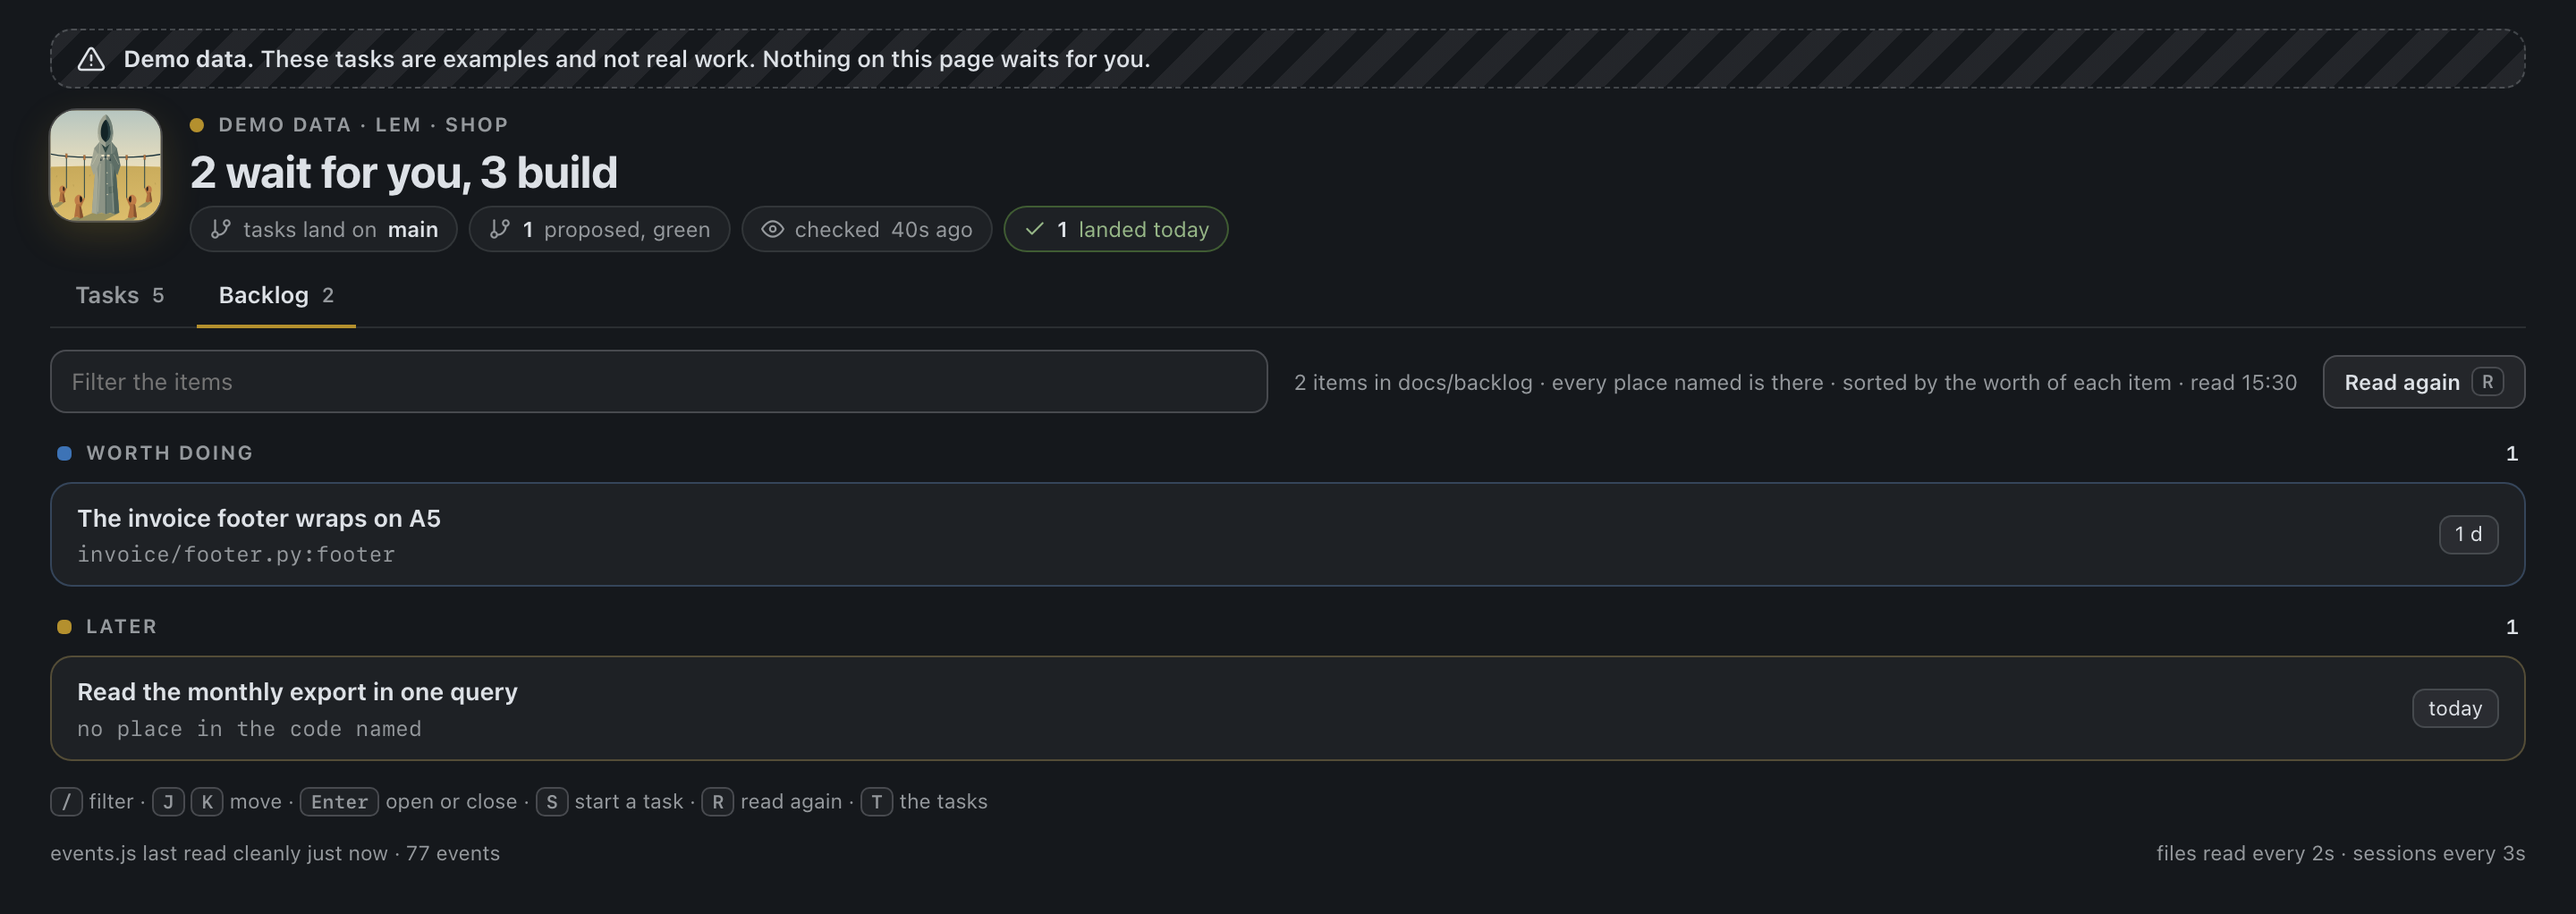
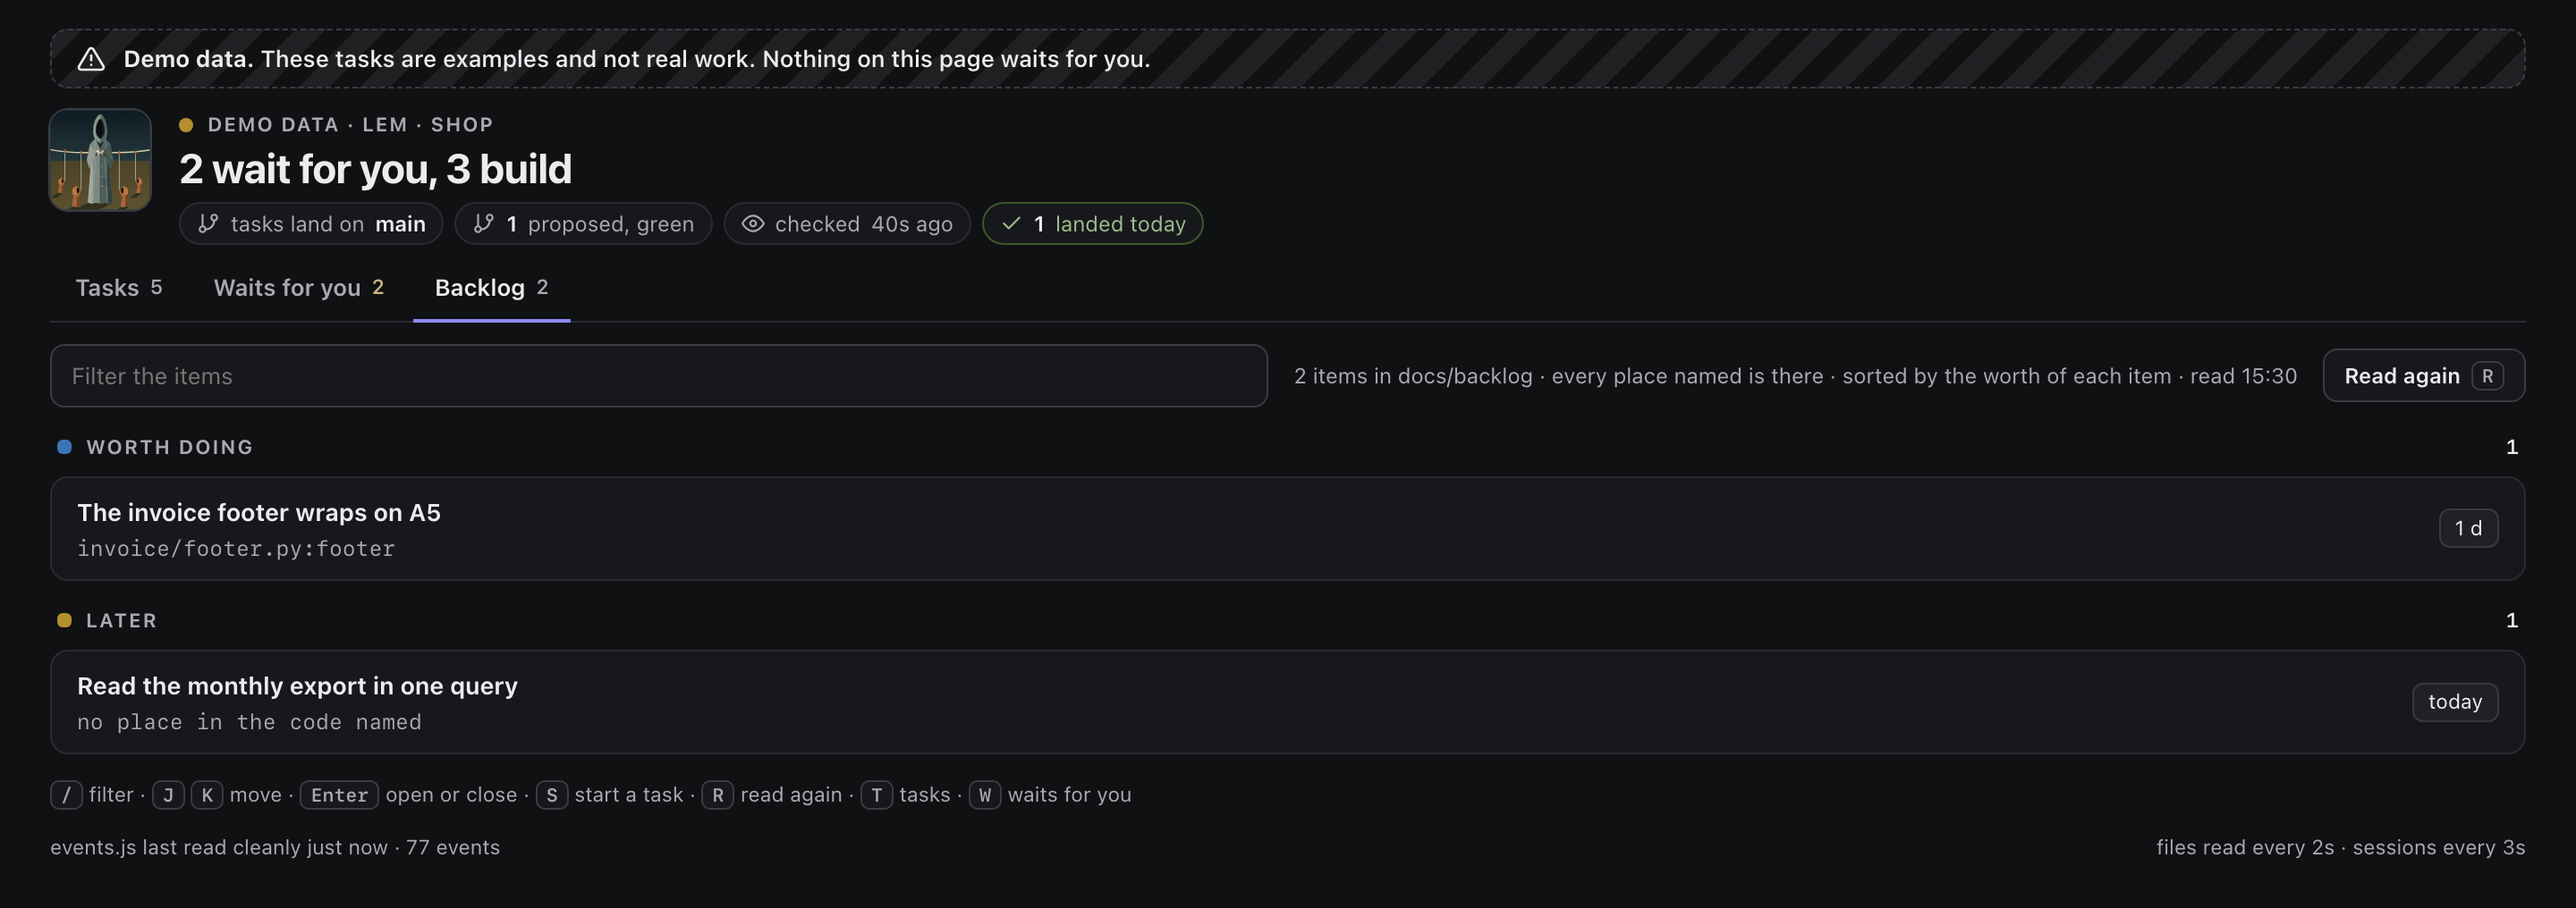
test(showcase): the pictures give light and dark by agterm's theme stylesheet, and show the new board

diff --git a/tests/board-showcase.py b/tests/board-showcase.py
@@ -29,8 +29,13 @@ ROOT = Path(__file__).resolve().parent.parent
 SCRIPTS = ROOT / "skills" / "lem" / "scripts"
 NOW = datetime(2026, 11, 17, 15, 30, tzinfo=timezone.utc)
 CHROMES = ("google-chrome", "chromium", "chromium-browser", "/Applications/Google Chrome.app/Contents/MacOS/Google Chrome")
-# The dark theme as agterm gives it to a page: its background and its text color.
-DARK = ":root { --agterm-background: #15181c; --agterm-foreground: #dde1e6; }"
+# A light and a dark theme as agterm gives them to a page: the stylesheet it puts into a file page, whose
+# color-scheme on html is what lem.js reads to choose Lem's own palette (agterm's background alone chooses
+# nothing). The form is the line tests/test-board.sh puts into its pages.
+THEMES = {
+    "light": ":where(html) { color-scheme: light; color: #1d1f21; --agterm-background: #ffffff; --agterm-foreground: #1d1f21; }",
+    "dark": ":where(html) { color-scheme: dark; color: #dde1e6; --agterm-background: #15181c; --agterm-foreground: #dde1e6; }",
+}
 WIDTH = 1440
 
 
@@ -320,7 +325,8 @@ def page_copy(state: Path, page: str, dark: bool, probe: bool) -> Path:
     if not pristine.is_file():
         shutil.copyfile(target, pristine)
     text = pristine.read_text()
-    head = CLOCK.format(now=NOW.strftime("%Y-%m-%dT%H:%M:%SZ")) + (f"<style>{DARK}</style>" if dark else "")
+    theme = THEMES["dark" if dark else "light"]
+    head = CLOCK.format(now=NOW.strftime("%Y-%m-%dT%H:%M:%SZ")) + f'<style id="agterm-theme">{theme}</style>'
     text = text.replace("<head>", f"<head>{head}", 1)
     if probe:
         text = text.replace("</body>", f"{PROBE}</body>", 1)
@@ -376,6 +382,7 @@ def main() -> None:
         if "--measure" in sys.argv:
             print(json.dumps({f"{w}x900": measure(binary, profile, shop.dir, "board", w, 900) for w in (900, 1400, 1800)}
                              | {"task 1400x900": measure(binary, profile, shop.dir, "task-order-date-on-invoice", 1400, 900)}, indent=2))
+        # the board of all tasks on its tabs Tasks and Backlog, and the board of one task on its first tab, Overview
         shots = {"board": ("board", ""), "task": ("task-order-date-on-invoice", ""), "backlog": ("board", "#backlog")}
         for name, (page, hash_) in shots.items():
             for theme in ("light", "dark"):
